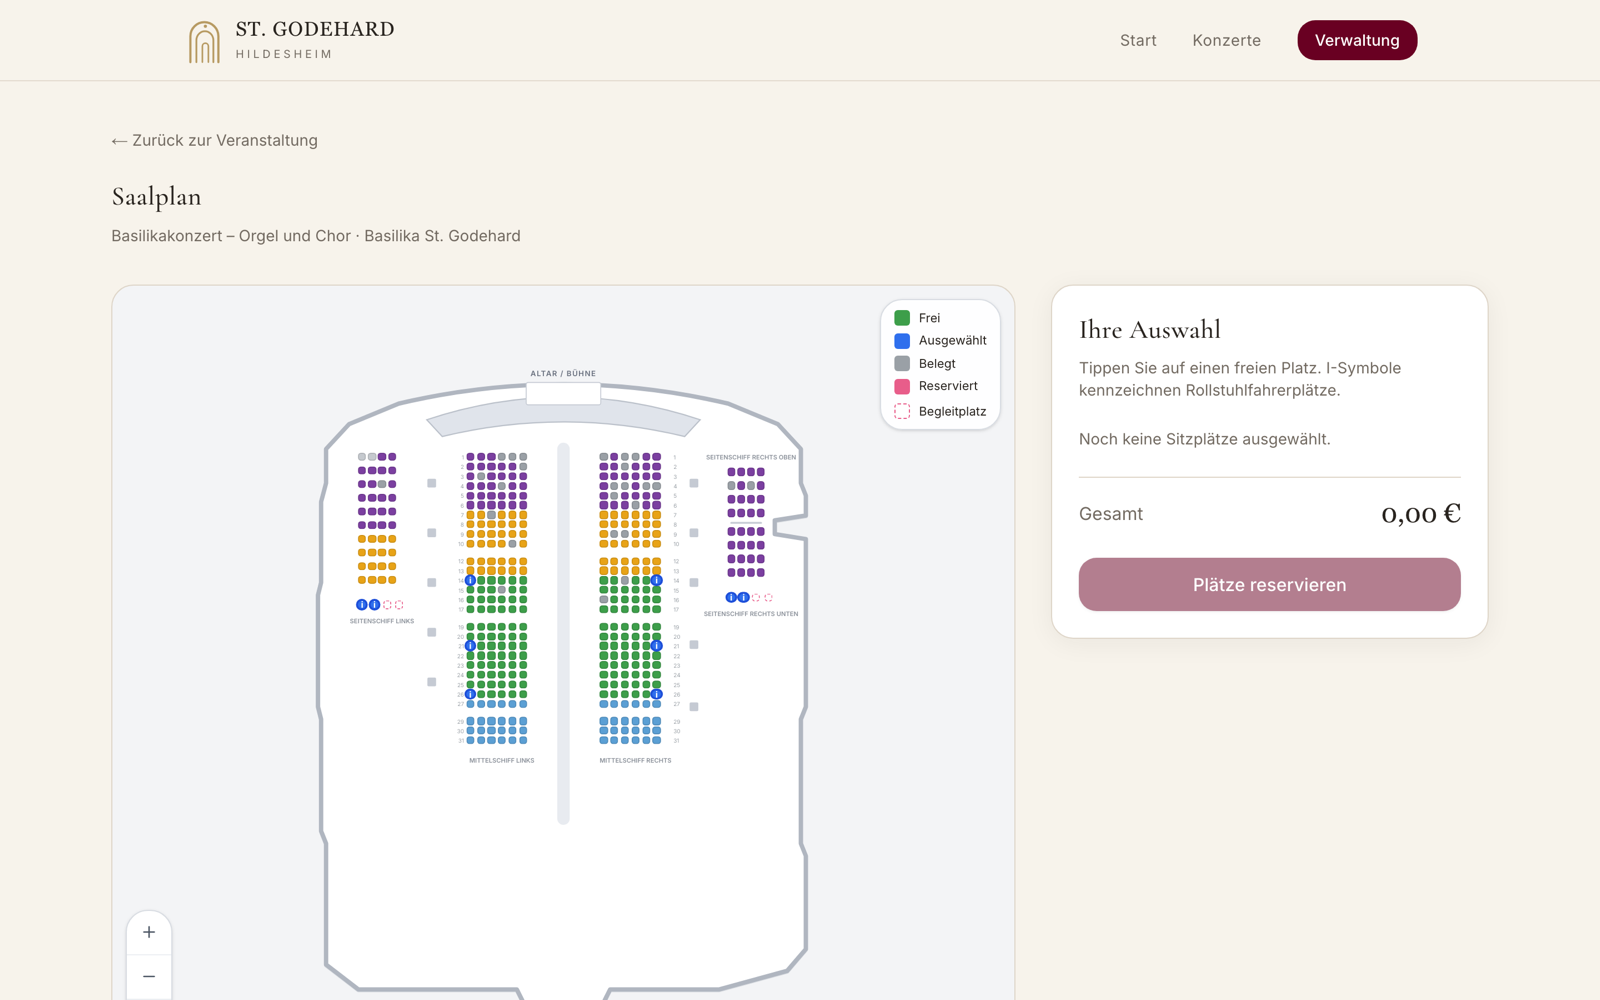
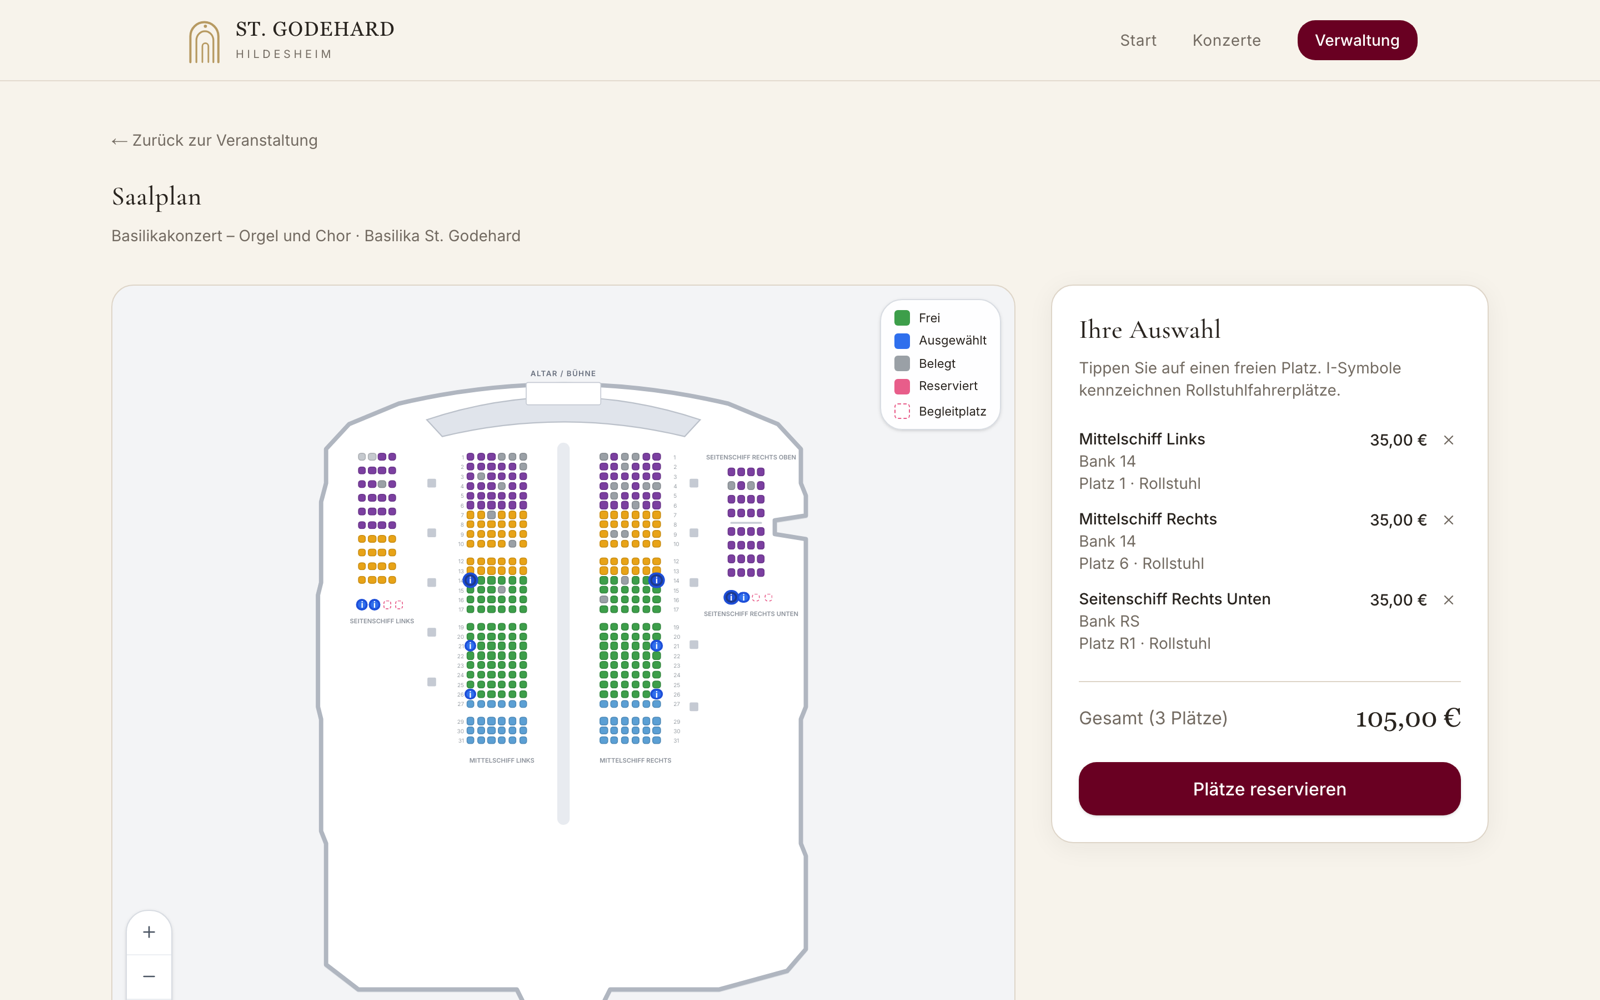
feat: present case studies in browser mockups
Frame project shots with device chrome and brand accents so Selected Work reads as polished product work at a glance.

diff --git a/src/components/BrowserMockup.tsx b/src/components/BrowserMockup.tsx
@@ -1,0 +1,82 @@
+import Image from 'next/image';
+
+type BrowserMockupProps = {
+  src: string;
+  alt: string;
+  url?: string;
+  accent?: string;
+  accentSecondary?: string;
+  priority?: boolean;
+  sizes?: string;
+  className?: string;
+  /** When true, fills parent height instead of fixed aspect ratio */
+  fillHeight?: boolean;
+};
+
+function displayUrl(url?: string) {
+  if (!url) return 'charlesheller.dev';
+  try {
+    const parsed = new URL(url);
+    return parsed.hostname.replace(/^www\./, '') + (parsed.pathname === '/' ? '' : parsed.pathname);
+  } catch {
+    return url;
+  }
+}
+
+export default function BrowserMockup({
+  src,
+  alt,
+  url,
+  accent = '#1a3a3a',
+  accentSecondary = '#0d1116',
+  priority = false,
+  sizes = '(max-width: 1024px) 100vw, 50vw',
+  className = '',
+  fillHeight = false,
+}: BrowserMockupProps) {
+  return (
+    <div
+      className={`relative overflow-hidden ${fillHeight ? 'flex h-full min-h-[280px] flex-col' : ''} ${className}`}
+      style={{
+        background: `radial-gradient(120% 90% at 20% 10%, ${accent} 0%, ${accentSecondary} 55%, #0a0c10 100%)`,
+      }}
+    >
+      <div
+        aria-hidden
+        className="pointer-events-none absolute inset-0 opacity-40"
+        style={{
+          background: 'radial-gradient(ellipse at 80% 90%, rgba(46,245,245,0.12), transparent 50%)',
+        }}
+      />
+
+      <div
+        className={`relative z-10 mx-auto flex w-full flex-col px-3.5 py-5 sm:px-5 sm:py-7 lg:px-6 ${fillHeight ? 'my-auto' : ''}`}
+      >
+        <div className="overflow-hidden rounded-xl border border-white/15 bg-[#1a1d24] shadow-[0_28px_64px_-14px_rgba(0,0,0,0.7),0_0_0_1px_rgba(255,255,255,0.05)] transition-transform duration-500 group-hover:-translate-y-1.5 group-hover:shadow-[0_36px_72px_-14px_rgba(0,0,0,0.75)]">
+          <div className="flex items-center gap-3 border-b border-white/8 bg-[#22262f] px-3 py-2.5">
+            <div className="flex shrink-0 gap-1.5" aria-hidden>
+              <span className="h-2.5 w-2.5 rounded-full bg-[#ff5f57]" />
+              <span className="h-2.5 w-2.5 rounded-full bg-[#febc2e]" />
+              <span className="h-2.5 w-2.5 rounded-full bg-[#28c840]" />
+            </div>
+            <div className="min-w-0 flex-1 truncate rounded-md bg-black/35 px-2.5 py-1 text-center text-[11px] text-white/55">
+              {displayUrl(url)}
+            </div>
+            <div className="w-10 shrink-0" aria-hidden />
+          </div>
+
+          <div className="relative aspect-[16/10] bg-[#0d1116]">
+            <Image
+              src={src}
+              alt={alt}
+              fill
+              priority={priority}
+              sizes={sizes}
+              className="object-cover object-top"
+            />
+          </div>
+        </div>
+      </div>
+    </div>
+  );
+}

diff --git a/src/app/(portfolio)/@projects/page.tsx b/src/app/(portfolio)/@projects/page.tsx
@@ -1,7 +1,7 @@
 import { ArrowRight, ExternalLink, Github } from 'lucide-react';
-import Image from 'next/image';
 import Link from 'next/link';
 
+import BrowserMockup from '@/components/BrowserMockup';
 import Title from '@/components/Title';
 import { projects } from '@/data/projects';
 
@@ -19,7 +19,7 @@ export default function Projects() {
           Case studies that show how I ship software — and the quality systems that travel with it.
         </p>
 
-        <div className="mt-12 flex flex-col gap-14">
+        <div className="mt-12 flex flex-col gap-16">
           {featured.map((project, index) => {
             const bullets = [
               { label: 'Result', text: project.result },
@@ -31,22 +31,24 @@ export default function Projects() {
             return (
               <article
                 key={project.title}
-                className="group reveal-on-scroll overflow-hidden rounded-3xl border border-white/10 bg-white/[0.03] transition-colors duration-300 hover:bg-white/[0.06]"
+                className="group reveal-on-scroll overflow-hidden rounded-3xl border border-white/10 bg-white/[0.02]"
               >
                 <div
                   className={`grid items-stretch lg:grid-cols-2 ${index % 2 === 1 ? 'lg:[&>div:first-child]:order-2' : ''}`}
                 >
-                  <div className="bg-card relative min-h-[240px] overflow-hidden lg:min-h-[360px]">
-                    <Image
-                      src={project.image}
-                      alt={`${project.title} screenshot`}
-                      fill
-                      sizes="(max-width: 1024px) 100vw, 50vw"
-                      className="object-cover object-top transition-transform duration-500 group-hover:scale-[1.03]"
-                    />
-                  </div>
+                  <BrowserMockup
+                    src={project.image}
+                    alt={`${project.title} product preview`}
+                    url={project.live}
+                    accent={project.accent}
+                    accentSecondary={project.accentSecondary}
+                    priority={index === 0}
+                    fillHeight
+                    sizes="(max-width: 1024px) 100vw, 50vw"
+                    className="min-h-[300px] lg:min-h-[420px]"
+                  />
 
-                  <div className="flex flex-col justify-center p-6 md:p-8">
+                  <div className="flex flex-col justify-center p-6 md:p-8 lg:p-10">
                     <h3 className="font-display text-2xl font-semibold md:text-3xl">
                       {project.title}
                     </h3>

diff --git a/src/app/(legal)/work/[slug]/page.tsx b/src/app/(legal)/work/[slug]/page.tsx
@@ -1,9 +1,9 @@
 import { ExternalLink, Github } from 'lucide-react';
 import type { Metadata } from 'next';
-import Image from 'next/image';
 import Link from 'next/link';
 import { notFound } from 'next/navigation';
 
+import BrowserMockup from '@/components/BrowserMockup';
 import { getProject, projects } from '@/data/projects';
 
 type Props = { params: Promise<{ slug: string }> };
@@ -76,14 +76,16 @@ export default async function CaseStudyPage({ params }: Props) {
         </div>
       </header>
 
-      <div className="relative mt-10 aspect-[16/9] overflow-hidden rounded-2xl border border-white/10">
-        <Image
-          src={project.image}
+      <div className="mt-10 overflow-hidden rounded-2xl border border-white/10">
+        <BrowserMockup
+          src={project.heroImage ?? project.image}
           alt={`${project.title} overview`}
-          fill
+          url={project.live}
+          accent={project.accent}
+          accentSecondary={project.accentSecondary}
           priority
-          className="object-cover object-top"
           sizes="(max-width: 896px) 100vw, 896px"
+          className="rounded-2xl"
         />
       </div>
 
@@ -147,17 +149,15 @@ export default async function CaseStudyPage({ params }: Props) {
       {gallery.length > 1 && (
         <section className="mt-12">
           <h2 className="font-display text-2xl font-semibold">Product walkthrough</h2>
-          <div className="mt-6 grid gap-4 md:grid-cols-2">
+          <div className="mt-6 grid gap-5 md:grid-cols-2">
             {gallery.map((src) => (
-              <div
-                key={src}
-                className="relative aspect-[16/10] overflow-hidden rounded-xl border border-white/10"
-              >
-                <Image
+              <div key={src} className="overflow-hidden rounded-xl border border-white/10">
+                <BrowserMockup
                   src={src}
                   alt={`${project.title} screen`}
-                  fill
-                  className="object-cover object-top"
+                  url={project.live}
+                  accent={project.accent}
+                  accentSecondary={project.accentSecondary}
                   sizes="(max-width: 768px) 100vw, 448px"
                 />
               </div>

diff --git a/src/data/projects.ts b/src/data/projects.ts
@@ -17,6 +17,12 @@ export type Project = {
   github?: string;
   live?: string;
   image: string;
+  /** Optional alternate shot for the home hero card */
+  heroImage?: string;
+  /** Mockup stage gradient — primary accent */
+  accent?: string;
+  /** Mockup stage gradient — secondary/deep accent */
+  accentSecondary?: string;
   featured: boolean;
   heroFeatured?: boolean;
   caseStudy?: boolean;
@@ -56,11 +62,14 @@ export const projects: Project[] = [
       'Stripe Checkout + webhook (mock fallback for local/dev)',
       'QR tokens without PII + staff scanner roles',
     ],
-    gallery: ['/navissedes.png', '/navissedes-event.png', '/navissedes-seats.png'],
+    gallery: ['/navissedes.jpg', '/navissedes-seats.png', '/navissedes-event.png'],
     tech: ['Next.js', 'Prisma', 'Neon', 'Stripe', 'Playwright', 'Vitest'],
     github: 'https://github.com/CH4692/NavisSedes',
     live: 'https://navissedes.charlesheller.dev/',
-    image: '/navissedes.png',
+    image: '/navissedes-seats.png',
+    heroImage: '/navissedes.jpg',
+    accent: '#6b1a2e',
+    accentSecondary: '#1a1216',
     featured: true,
     heroFeatured: true,
     caseStudy: true,
@@ -101,7 +110,9 @@ export const projects: Project[] = [
     tech: ['Next.js', 'Prisma', 'Neon', 'JWT', 'Playwright'],
     github: 'https://github.com/CH4692/opentablenextjs',
     live: 'https://opentableclone-ten.vercel.app/',
-    image: '/seatly.png',
+    image: '/seatly.jpg',
+    accent: '#0d4f52',
+    accentSecondary: '#0c1418',
     featured: true,
   },
   {
@@ -138,6 +149,8 @@ export const projects: Project[] = [
     github: 'https://github.com/CH4692/playwright-automation-suite',
     live: 'https://playwright-automation-suite.vercel.app/',
     image: '/playwright.png',
+    accent: '#2a3f1e',
+    accentSecondary: '#10140f',
     featured: true,
   },
   {
@@ -173,6 +186,8 @@ export const projects: Project[] = [
     github: 'https://github.com/CH4692/elikuren-app',
     live: 'https://dev.kammerchor-elikuren.de',
     image: '/elikuren.png',
+    accent: '#3d2a4a',
+    accentSecondary: '#121018',
     featured: true,
   },
 ];

diff --git a/src/app/(portfolio)/@home/page.tsx b/src/app/(portfolio)/@home/page.tsx
@@ -1,7 +1,7 @@
 import { ExternalLink } from 'lucide-react';
-import Image from 'next/image';
 import Link from 'next/link';
 
+import BrowserMockup from '@/components/BrowserMockup';
 import CtaButton from '@/components/CtaButton';
 import Icons from '@/components/Icons';
 import { availability } from '@/data/experience';
@@ -58,18 +58,17 @@ export default function Home() {
       <div className="hero-portrait w-full max-w-lg shrink-0">
         <Link
           href={`/work/${heroProject.slug}`}
-          className="group hover:border-primary/40 block overflow-hidden rounded-2xl border border-white/10 bg-white/[0.03] transition hover:bg-white/[0.06]"
+          className="group hover:border-primary/40 block overflow-hidden rounded-2xl border border-white/10 bg-white/[0.02] transition"
         >
-          <div className="relative aspect-[16/10] overflow-hidden">
-            <Image
-              src={heroProject.image}
-              alt={`${heroProject.title} preview`}
-              fill
-              priority
-              sizes="(max-width: 1024px) 100vw, 512px"
-              className="object-cover transition-transform duration-500 group-hover:scale-[1.03]"
-            />
-          </div>
+          <BrowserMockup
+            src={heroProject.heroImage ?? heroProject.image}
+            alt={`${heroProject.title} preview`}
+            url={heroProject.live}
+            accent={heroProject.accent}
+            accentSecondary={heroProject.accentSecondary}
+            priority
+            sizes="(max-width: 1024px) 100vw, 512px"
+          />
           <div className="p-4 sm:p-5">
             <p className="text-primary text-xs tracking-[0.18em] uppercase">Featured case study</p>
             <div className="mt-2 flex items-start justify-between gap-3">

diff --git a/src/app/layout.tsx b/src/app/layout.tsx
@@ -45,7 +45,7 @@ export const metadata: Metadata = {
       'Enterprise QA depth meets modern fullstack delivery. Case studies in ticketing, reservations, and test automation.',
     images: [
       {
-        url: '/navissedes.png',
+        url: '/navissedes.jpg',
         width: 1600,
         height: 1000,
         alt: 'NavisSedes — featured project by Charles Heller',
@@ -57,7 +57,7 @@ export const metadata: Metadata = {
     title: 'Charles Heller · Quality-Driven Software Engineer',
     description:
       'Enterprise QA depth meets modern fullstack delivery. Case studies in ticketing, reservations, and test automation.',
-    images: ['/navissedes.png'],
+    images: ['/navissedes.jpg'],
   },
   alternates: {
     canonical: 'https://www.charlesheller.dev',
